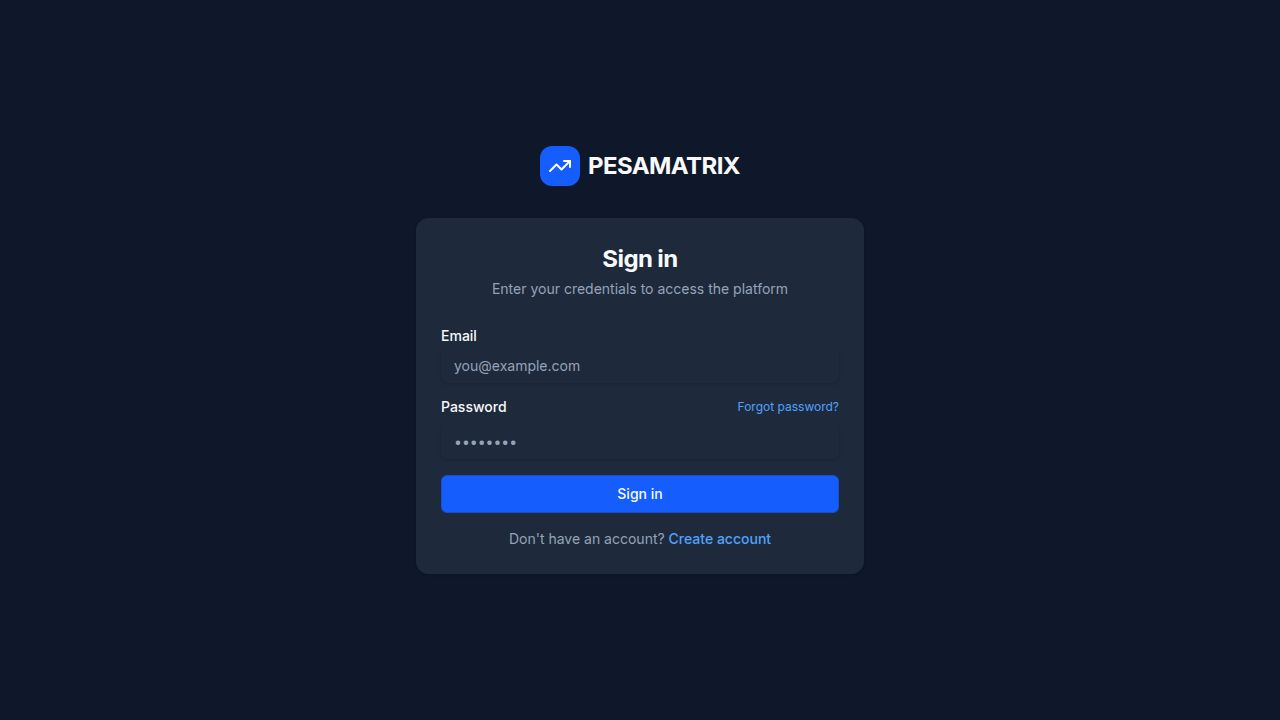
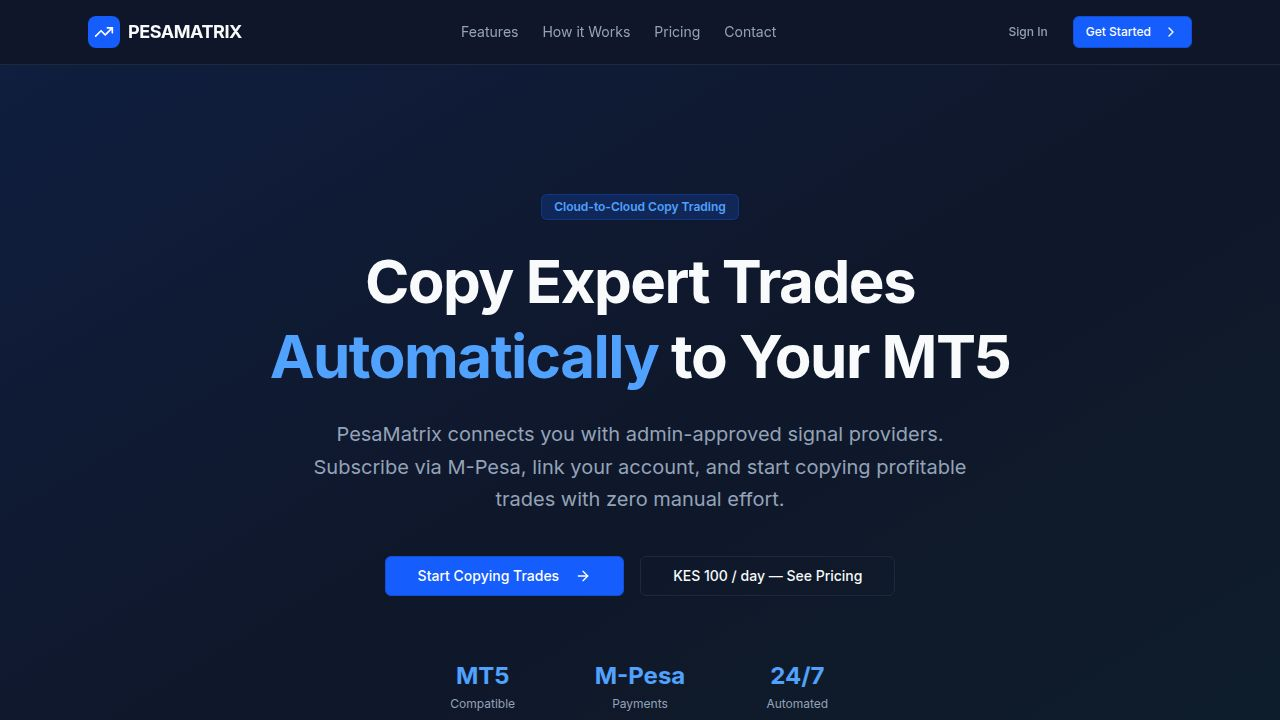
Update API server to correctly process incoming requests
Set the API server to trust the first proxy to correctly handle incoming requests.

Replit-Commit-Author: Agent
Replit-Commit-Session-Id: c86796e8-fc1c-496f-9fd4-afb3894fe04c
Replit-Commit-Checkpoint-Type: full_checkpoint
Replit-Commit-Event-Id: 5af213f4-f57c-481d-9854-44f78e830c3c
Replit-Commit-Screenshot-Url: https://storage.googleapis.com/screenshot-production-us-central1/1287d937-08d4-4af5-904f-86e26cd17bb4/c86796e8-fc1c-496f-9fd4-afb3894fe04c/RACU2Ab
Replit-Helium-Checkpoint-Created: true

diff --git a/artifacts/api-server/src/app.ts b/artifacts/api-server/src/app.ts
@@ -15,6 +15,8 @@ const __dirname = path.dirname(fileURLToPath(import.meta.url));
 
 const app: Express = express();
 
+app.set("trust proxy", 1);
+
 app.use(
   pinoHttp({
     logger,